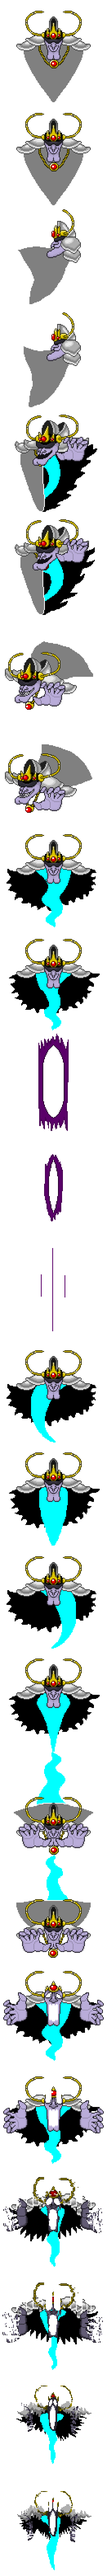
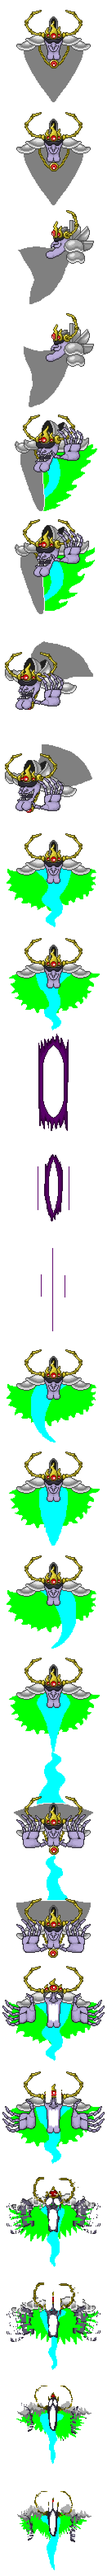
Nightmare + Proj Name Changes + Extras
- Updated Nightmare Wizard's sprite
- Gave Nightmare opening his cloak during orb attacks a bit of buffer time before closing
- Added Bonker's song to the corresponding music box
- Changed Totem of Light's recipe to omit Purified Matter and add Soul Matter
- Made Purified Matter uncraftable
- Made Zero's achievement only unlock when killing the eye (start of appending eye to Zero)
- Removed the pet code and just changed Townie Marx's death message directly
- Added boss health bar scaling and removed potions for DM Rematch
- Added an "unobtainable" key for Purified Matter and Jamba Staff's descs
- Changed many proj names in local file

diff --git a/NPCs/Marx/Townie/MarxTownie.cs b/NPCs/Marx/Townie/MarxTownie.cs
@@ -98,7 +98,7 @@ namespace KirboMod.NPCs.Marx.Townie
 			NPC.width = 36;
 			NPC.height = 36;
             DrawOffsetY = 32;
-			NPC.aiStyle = 7;
+			NPC.aiStyle = NPCAIStyleID.Passive;
 			NPC.damage = 0;
 			NPC.defense = 30;
 			NPC.lifeMax = 25000;
@@ -148,11 +148,6 @@ namespace KirboMod.NPCs.Marx.Townie
 		public override ITownNPCProfile TownNPCProfile() {
 			return NPCProfile;
 		}
-
-        public override void AI()
-        {
-            NPCID.Sets.IsTownPet[Type] = false; //set to not pet when spawning back in after death
-        }
 
 		public override List<string> SetNPCNameList() 
 		{
@@ -417,14 +412,7 @@ namespace KirboMod.NPCs.Marx.Townie
             #endregion Help Text
         }
 
-        public override bool CheckDead()
-        {
-            if (NPC.life <= 0)
-            {
-                NPCID.Sets.IsTownPet[Type] = true; //set to pet last second to make the "-has left!" text appear (is constantly reveresed in AI())
-            }
-            return base.CheckDead();
-        }
+        public override LocalizedText DeathMessage => Language.GetText("Mods.KirboMod.NPCs.MarxTownie.Leave");
 
         public override bool CanGoToStatue(bool toKingStatue) => true;
 

diff --git a/NPCs/Nightmare/NightmareWizard.cs b/NPCs/Nightmare/NightmareWizard.cs
@@ -238,7 +238,7 @@ namespace KirboMod.NPCs
                     Projectile.NewProjectile(NPC.GetSource_FromThis(), NPC.Center, velocity, ModContent.ProjectileType<NightmareLightningOrb>(), 40, 0, -1, ai0, ai1, ai2);
                 }
             }
-            if (timer > firerate * (numOrbs + 1))
+            if (timer > firerate * (numOrbs + 3)) //give a little bit of buffer time before re-cloaking
             {
                 animation = 0;
             }
@@ -282,7 +282,7 @@ namespace KirboMod.NPCs
                     Projectile.NewProjectile(NPC.GetSource_FromAI(), NPC.Center, default, ModContent.ProjectileType<NightmareLightningOrbHoming>(), 40, 0, -1, NPC.target, NightmareLightningOrbHoming.GetMaxSpeed(firerate, numOrbs, start, (int)timer));
                 }
             }
-            if (timer > firerate * numOrbs)
+            if (timer > firerate * (numOrbs + 2)) //give a little bit of buffer time before re-cloaking
             {
                 animation = 0;
             }

diff --git a/Items/Placeables/MusicBoxes/BonkersMusicBox.cs b/Items/Placeables/MusicBoxes/BonkersMusicBox.cs
@@ -10,7 +10,7 @@ namespace KirboMod.Items.Placeables.MusicBoxes
 			ItemID.Sets.CanGetPrefixes[Type] = false; // music boxes can't get prefixes in vanilla
 			ItemID.Sets.ShimmerTransformToItem[Type] = ItemID.MusicBox; // recorded music boxes transform into the basic form in shimmer
 
-			//MusicLoader.AddMusicBox(Mod, MusicLoader.GetMusicSlot(Mod, "Music/Photonic0_BatafireBattle_WithLoopMetadata"), ModContent.ItemType<BatafireMusicBox>(), ModContent.TileType<BatafireMusicBoxTile>());
+			MusicLoader.AddMusicBox(Mod, MusicLoader.GetMusicSlot(Mod, "Music/Photonic0_KirbyModBonkersBattle_WithLoopMetadata"), ModContent.ItemType<BonkersMusicBox>(), ModContent.TileType<BonkersMusicBoxTile>());
 		}
 
 		public override void SetDefaults() {

diff --git a/Items/PillarOfLight.cs b/Items/PillarOfLight.cs
@@ -69,8 +69,10 @@ namespace KirboMod.Items
 		public override void AddRecipes()
         {
 			Recipe recipe = CreateRecipe();//the result is totem
-			recipe.AddIngredient(ModContent.ItemType<Items.PurifiedMaterial>()); //1 purified matter
-			recipe.AddIngredient(ItemID.LunarBar, 5); //5 luminite bars
+			recipe.AddIngredient(ModContent.ItemType<DarkMaterial>(), 3);
+            recipe.AddIngredient(ModContent.ItemType<SoulMatter>(), 3);
+            recipe.AddIngredient(ModContent.ItemType<HeartMatter>(), 10);
+            recipe.AddIngredient(ItemID.LunarBar, 5); //5 luminite bars
 			recipe.AddTile(TileID.LunarCraftingStation); //crafted at ancient manipulator
 			recipe.Register(); //adds this recipe to the game
 		}

diff --git a/NPCs/PureDarkMatterRematch/PureDarkMatterRematch.cs b/NPCs/PureDarkMatterRematch/PureDarkMatterRematch.cs
@@ -681,6 +681,18 @@ namespace KirboMod.NPCs.PureDarkMatterRematch
                 }
             }
         }
+
+        public override void BossLoot(ref int potionType)
+        {
+            potionType = ItemID.None;
+        }
+        public override bool? DrawHealthBar(byte hbPosition, ref float scale, ref Vector2 position)
+        {
+            scale = 1.5f;
+
+            return true;
+        }
+
         public override void FindFrame(int frameHeight)
         {
             NPC.frameCounter += 1.0;

diff --git a/Achievements/BossAchievements.cs b/Achievements/BossAchievements.cs
@@ -85,14 +85,7 @@ public class ZeroAchievement : ModAchievement
     {
         Achievement.SetCategory(AchievementCategory.Slayer);
 
-        if (Main.expertMode)
-        {
-            AddNPCKilledCondition(ModContent.NPCType<ZeroEye>());
-        }
-        else
-        {
-            AddNPCKilledCondition(ModContent.NPCType<Zero>());
-        }
+        AddNPCKilledCondition(ModContent.NPCType<ZeroEye>());
     }
 
     public override Position GetDefaultPosition() => new After("CHAMPION_OF_TERRARIA");

diff --git a/Items/PurifiedMaterial.cs b/Items/PurifiedMaterial.cs
@@ -28,13 +28,13 @@ namespace KirboMod.Items
 			Item.maxStack = 9999;
 		}
 
-		public override void AddRecipes()
+		/*public override void AddRecipes()
 		{
 			Recipe recipe = CreateRecipe();
 			recipe.AddIngredient(ModContent.ItemType<DarkMaterial>(), 3);
 			recipe.AddIngredient(ModContent.ItemType<HeartMatter>(), 2);
 			recipe.AddTile(TileID.MythrilAnvil);
 			recipe.Register();
-		}
+		}*/
 	}
 }
